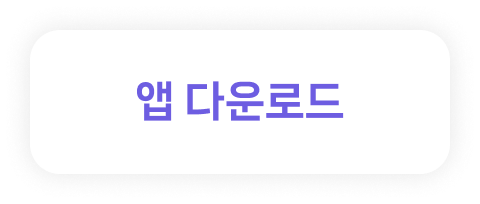
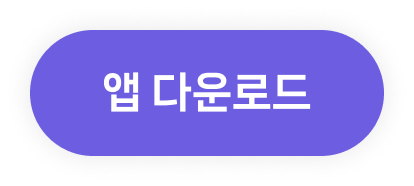
중간푸시

diff --git a/index.html b/index.html
@@ -32,16 +32,9 @@
                             이 세상 모든 강아지와 고양이가 모여드는<br />
                             당신에게 가장 가까운 곳
                         </p>
-
                         <div class="app-box">
-                            <a title="PUPPYCAT google Play" target="_blank" href="#" class="app-google">
-                                <img src="img/img_puppy_googleplay.png" alt="퍼피캣 구글플레이" />
-                            </a>
-
-                            <a title="PUPPYCAT App Store" target="_blank" href="#" class="app-store">
-                                <img src="img/img_puppy_appstore.png" alt="퍼피캣 앱스토어" />
-                            </a>
-                            <img src="img/img_puppy_qr.png" class="app-qr" />
+                            <img src="../img/img_puppy_qr.png" class="img-qr display-pc" alt="QR코드를 스캔해보세요! 퍼피캣 다운받기" />
+                            <img src="../img/img_puppy_btn_appdown.png" class="img-qr display-m" alt="QR코드를 스캔해보세요! 퍼피캣 다운받기" />
                         </div>
                     </div>
                 </section>
@@ -58,11 +51,18 @@
                             </p>
                         </div>
                         <div class="img-box">
-                            <div class="mobile-img">
-                                <img src="img/img_puppy_scroll_sns.png" alt="소셜미디어 이미지" class="img-scroll-sns" />
+                            <div class="mobile-img rolling-mobile">
+                                <ul>
+                                    <li><img src="img/img_puppy_mobile01.png" alt="퍼피캣 모바일화면 이미지" /></li>
+                                    <li><img src="img/img_puppy_mobile02.png" alt="퍼피캣 모바일화면 이미지" /></li>
+                                    <li><img src="img/img_puppy_mobile03.png" alt="퍼피캣 모바일화면 이미지" /></li>
+                                    <li><img src="img/img_puppy_mobile04.png" alt="퍼피캣 모바일화면 이미지" /></li>
+                                    <li><img src="img/img_puppy_mobile05.png" alt="퍼피캣 모바일화면 이미지" /></li>
+                                    <li><img src="img/img_puppy_mobile06.png" alt="퍼피캣 모바일화면 이미지" /></li>
+                                </ul>
                             </div>
                             <div class="mobile-img">
-                                <img src="img/img_puppy_scroll_message.png" alt="소셜미디어 이미지" />
+                                <img src="img/img_puppy_mobile06.png" alt="소셜미디어 이미지" />
                             </div>
                         </div>
                     </div>
@@ -265,6 +265,8 @@
                             <ul>
                                 <li>1. 회사는 이용자의 개인정보에 대해 개인정보의 수집·이용 목적이 달성을 위한 기간 동안 개인정보를 보유 및 이용합니다.</li>
                                 <li>2. 회사는 보유기간의 경과, 개인정보의 처리 목적 달성, 가명정보의 처리 기간 경과 등 그 개인정보가 불필요하게 되었을 때에는 지체 없이 그 개인정보를 파기합니다.</li>
+                                <li>3.회사 내부방침에 의거하여 회원 탈퇴 시 탈퇴 복구서비스를 제공하기 위해 7일간 보유합니다.</li>
+                                <li>4.서비스 부정 이용 및 부정사용자 재가입 방지 목적으로 서비스 운영 기간동안 보유합니다.</li>
                             </ul>
                             <h4>제11조(법령에 따른 개인정보의 보유 및 이용기간)</h4>
                             <ul>
@@ -272,13 +274,14 @@
                                 <li>
                                     1. 통신비밀보호법에 따른 보유정보 및 보유기간
                                     <ul>
-                                        <li>1. 웹사이트 로그 기록 자료 : 3개월</li>
+                                        <li>1-1. 웹사이트 로그 기록 자료 : 3개월</li>
+                                        <li>1-2. 소비자의 불만 또는 분쟁처리에 관한기록 : 6개월</li>
                                     </ul>
                                 </li>
                                 <li>
                                     2. 위치정보의 보호 및 이용 등에 관한 법률
                                     <ul>
-                                        <li>1. 개인위치정보에 관한 기록 : 6개월</li>
+                                        <li>2-1. 개인위치정보에 관한 기록 : 6개월</li>
                                     </ul>
                                 </li>
                             </ul>

diff --git a/css/layout.css b/css/layout.css
@@ -243,15 +243,7 @@ section {
     text-align: center;
 }
 .main-visual-col .app-box {
-    display: grid;
-    grid-template-columns: 1fr 13rem;
-    align-items: center;
-    gap: 0 2.8rem;
-    margin-top: 7%;
-}
-.main-visual-col .app-box .app-qr {
-    grid-row: 1/3;
-    grid-column: 2/3;
+    margin: 8rem auto 0;
 }
 .media-col .inner-col {
     display: flex;
@@ -319,7 +311,10 @@ section {
     -o-border-radius: 5.8rem;
 }
 .media-col .img-box .mobile-img img {
-    width: 100%;
+    position: relative;
+    display: block;
+    margin: 0 auto;
+    z-index: 1;
 }
 .media-col .img-box .mobile-img::after {
     content: '';
@@ -328,23 +323,40 @@ section {
     left: 0;
     width: 100%;
     height: 100%;
+    z-index: 3;
     background: url(../img/bg_puppy_mobile.png) no-repeat center / 100%;
 }
-.media-col .img-box .mobile-img:last-of-type {
+.media-col .img-box .mobile-img::before {
+    content: '';
+    position: absolute;
+    top: 0;
+    left: 0;
+    width: 100%;
+    height: 100%;
+    border: 1rem solid #fffef9;
+    z-index: 2;
+    border-radius: 5.8rem;
+    -webkit-border-radius: 5.8rem;
+    -moz-border-radius: 5.8rem;
+    -ms-border-radius: 5.8rem;
+    -o-border-radius: 5.8rem;
+}
+.media-col .img-box .mobile-img:nth-child(2) {
     top: -8rem;
     margin-left: 6rem;
 }
-.media-col.docSlider-current .img-scroll-sns {
-    animation: scrollMediaImg 70s 1s linear infinite;
-    -webkit-animation: scrollMediaImg 70s 1s linear infinite;
+.media-col .img-box .rolling-mobile ul {
+    position: relative;
+    white-space: nowrap;
 }
-@keyframes scrollMediaImg {
-    0% {
-        margin-top: 0;
-    }
-    100% {
-        margin-top: -870%;
-    }
+.media-col .img-box .rolling-mobile li {
+    display: inline-block;
+    vertical-align: middle;
+    transition: all 0.3s;
+    -webkit-transition: all 0.3s;
+    -moz-transition: all 0.3s;
+    -ms-transition: all 0.3s;
+    -o-transition: all 0.3s;
 }
 .bottom-col {
     -ms-overflow-style: none; /* IE and Edge */
@@ -688,8 +700,9 @@ section {
         padding-top: 4.8rem;
     }
     .main-visual-col {
-        background-size: contain;
-        background-position-y: 130%;
+        background-size: 100vmin;
+        background-position-y: 105%;
+        background-repeat: repeat-x;
         background-image: url(../img/bg_m_puppy_main_floor.png);
     }
     .main-visual-col::before {
@@ -700,8 +713,8 @@ section {
     }
     .main-visual-col::after {
         top: -2rem;
-        width: 15.8rem;
-        height: 67.5rem;
+        width: 16.8rem;
+        height: 90vh;
         background: url(../img/img_m_puppy_main_cat.png) no-repeat right top / contain;
     }
     .main-visual-col h2 {
@@ -714,19 +727,11 @@ section {
         font-size: 1.6rem;
     }
     .main-visual-col .app-box {
-        display: block;
-        margin-top: 8rem;
+        margin-top: 5rem;
     }
-    .main-visual-col .app-box a {
-        width: 14rem;
-        height: 4.8rem;
-        background: url(../img/img_puppy_btn_appdown.png) no-repeat center / 100%;
-    }
-    .main-visual-col .app-box a img {
-        display: none;
-    }
-    .main-visual-col .app-box .app-qr {
-        display: none;
+    .main-visual-col .img-qr {
+        width: 13.8rem;
+        height: 6.2rem;
     }
     .media-col .inner-col {
         display: block;
@@ -866,7 +871,7 @@ section {
 }
 @media screen and (max-width: 768px) {
     html {
-        font-size: 2.5vw;
+        font-size: 2.5vmin;
     }
     header {
         left: 0;
@@ -881,6 +886,6 @@ section {
 }
 @media screen and (max-width: 319px) {
     html {
-        font-size: 10px;
+        /* font-size: 10px; */
     }
 }

diff --git a/js/layout.js b/js/layout.js
@@ -82,6 +82,44 @@ function betweenRollCallbackReverse(d, roller) {
 
 let original_reverseID, clone_reverseID;
 
+function animateElement(element, targetTop, duration, callback) {
+    const startTop = element.offsetLeft;
+    const distance = targetTop - startTop;
+    const startTime = performance.now();
+
+    function step(timestamp) {
+        const elapsed = timestamp - startTime;
+        const progress = Math.min(elapsed / duration, 1);
+        const currentPosition = startTop + distance * progress;
+        element.style.left = currentPosition + 'px';
+
+        if (progress < 1) {
+            window.requestAnimationFrame(step);
+        } else {
+            if (typeof callback === 'function') {
+                callback();
+            }
+        }
+    }
+
+    window.requestAnimationFrame(step);
+}
+
+function RollingList(listName) {
+    let targetList = 0;
+    let ulElement = document.querySelector(listName).querySelector('ul');
+    let liElements = ulElement.getElementsByTagName('li');
+
+    setInterval(function () {
+        targetList = liElements[0];
+        animateElement(ulElement, -targetList.offsetWidth, 1000, function () {
+            ulElement.appendChild(liElements[0].cloneNode(true));
+            ulElement.style.left = '0px';
+            ulElement.removeChild(liElements[0]);
+        });
+    }, 5000);
+}
+
 window.addEventListener('load', function () {
     /*docslider*/
     docSlider.init({
@@ -92,13 +130,15 @@ window.addEventListener('load', function () {
     docPosition();
     headerVisible();
 
+    RollingList('.rolling-mobile');
+
     document.querySelector('.lottie-cat').innerHTML = '<lottie-player src="img/lottie_puppy_cat.json" background="transparent" speed=".9" loop autoplay></lottie-player>';
     document.querySelector('.lottie-dog').innerHTML = '<lottie-player src="img/lottie_puppy_dog.json" background="transparent" speed=".9" loop autoplay></lottie-player>';
 
     document.querySelector('.lottie-banner-cat').innerHTML = '<lottie-player src="img/lottie_puppy_banner_cat.json" background="transparent" speed=".9" loop autoplay></lottie-player>';
     document.querySelector('.lottie-banner-round').innerHTML = '<lottie-player src="img/lottie_puppy_banner_round.json" background="transparent" speed=".9" loop autoplay></lottie-player>';
 
-    mobileCheck();
+    // mobileCheck();
 
     let pathSearch = window.location;
     let originUrl = window.location.origin + window.location.pathname;
@@ -172,7 +212,7 @@ window.addEventListener('load', function () {
 
 window.addEventListener('resize', function () {
     docPosition();
-    mobileCheck();
+    // mobileCheck();
 
     //리사이즈 시 원본, 복제본 배너 위치 재지정
     document.querySelector('#roller1').style.left = '0px';
